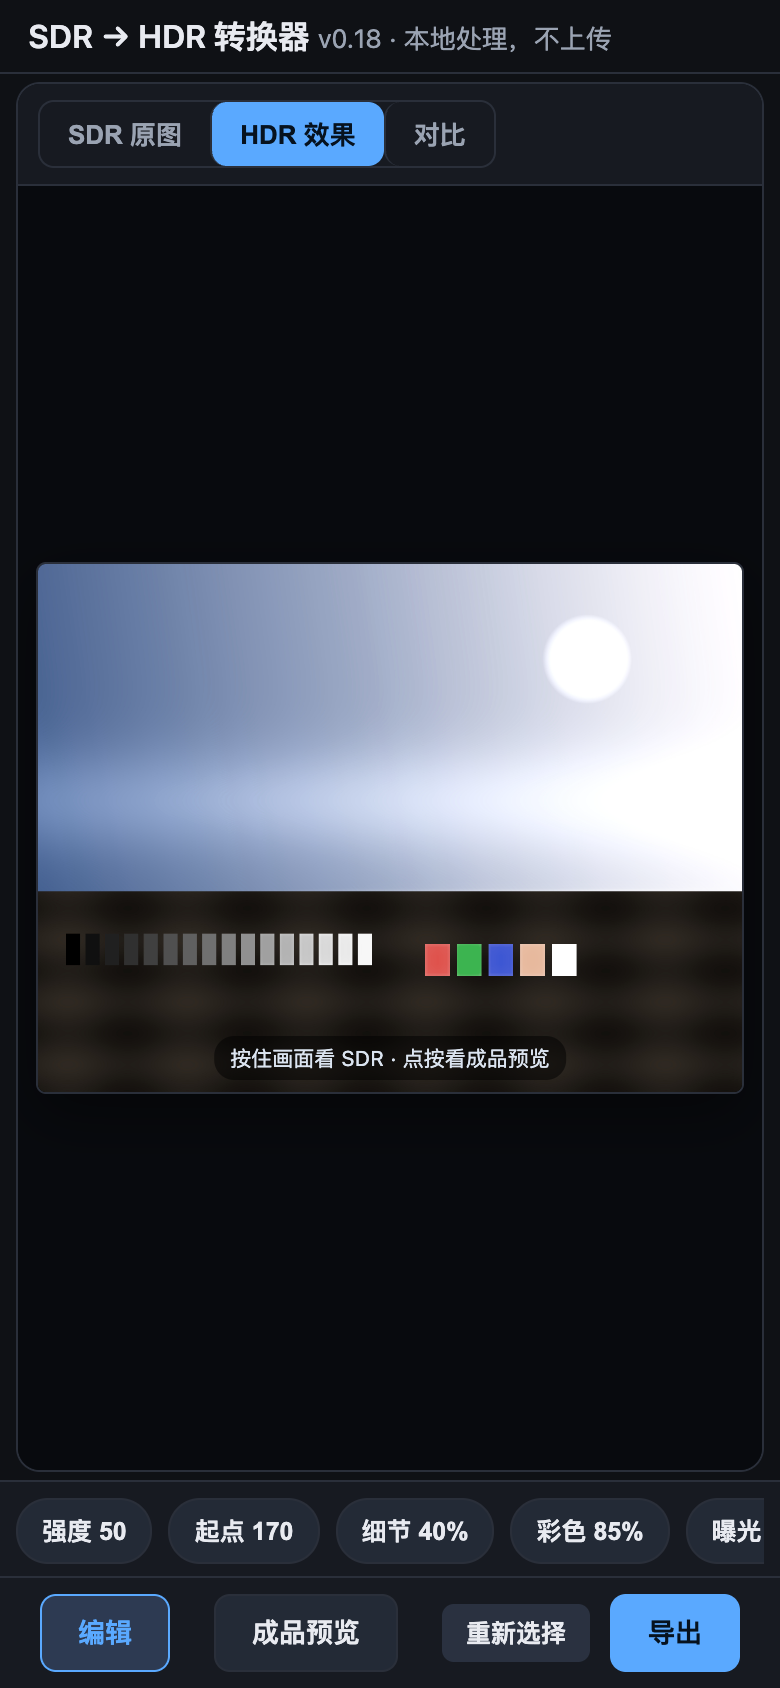
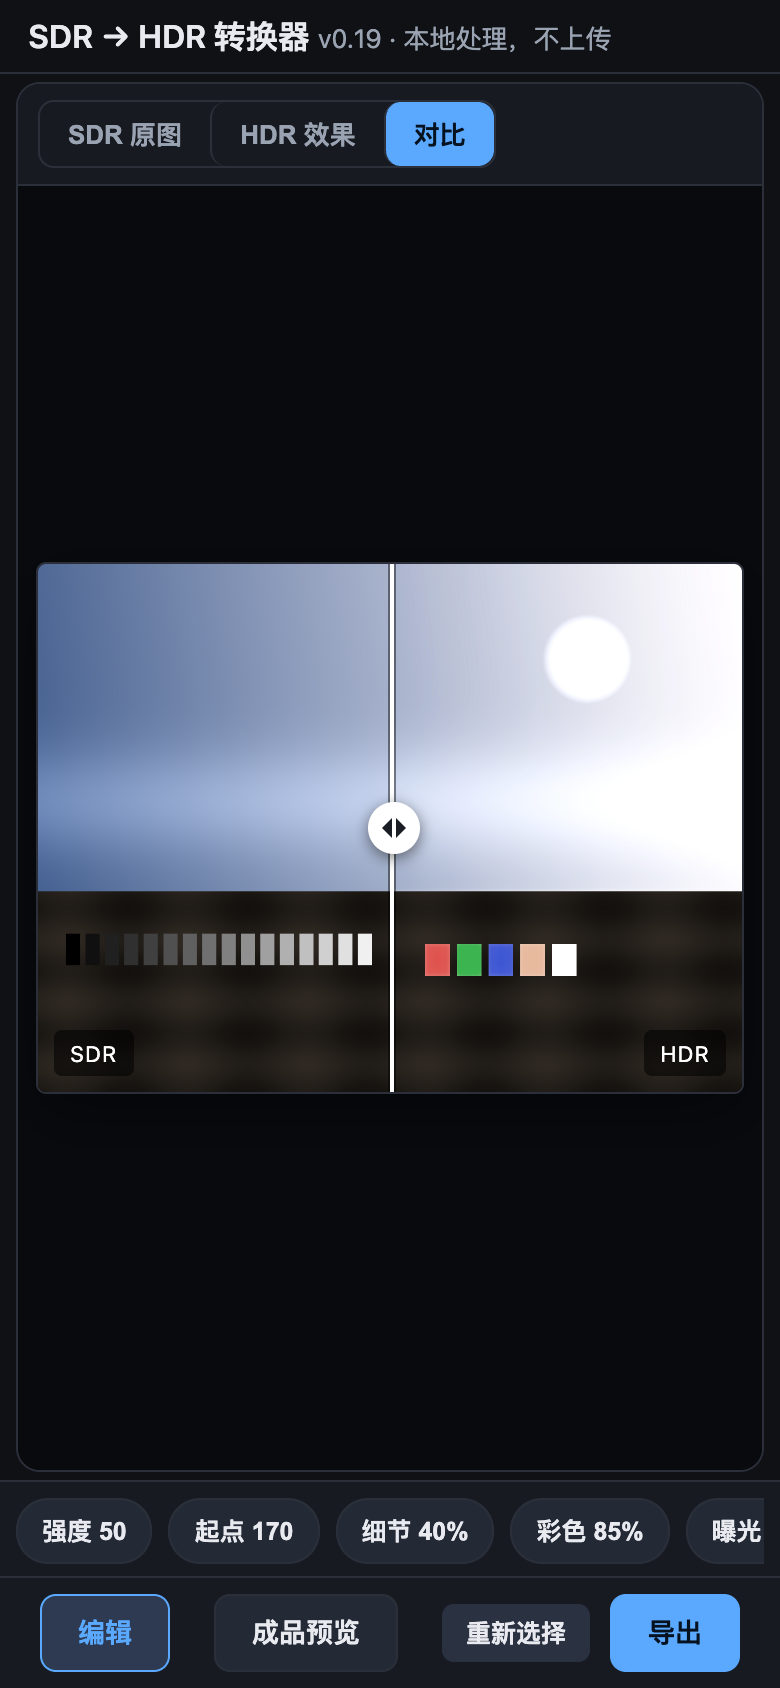
fix(ui): v0.19 always default to split compare view
- Previous v0.18 only defaulted to split on desktop (>960px); phones/narrow windows kept HDR, which is why the user still saw the HDR view after loading
- Default view on load is now split for every viewport (desktop, tablet, phone); right sidebar params still live-editable
- Rebuilt dist/SDR-to-HDR.html and legacy copy; mobile tests now assert split default
- Desktop/mobile/load regressions pass; local commit only

diff --git a/index.html b/index.html
@@ -3,7 +3,7 @@
 <head>
 <meta charset="utf-8">
 <meta name="viewport" content="width=device-width, initial-scale=1, viewport-fit=cover">
-<title>SDR → HDR 转换器（本地网页版）v0.18</title>
+<title>SDR → HDR 转换器（本地网页版）v0.19</title>
 <style>
   :root {
     --bg: #0f1115; --panel: #171a21; --line: #2a2f3a; --fg: #e8eaf0;
@@ -414,8 +414,8 @@
 <body>
 <header>
   <div class="header-text">
-    <h1>SDR → HDR 转换器 <span style="color:var(--muted);font-weight:400;font-size:13px">v0.18 · 本地处理，不上传</span></h1>
-    <div class="ver-note">v0.18 更新：载入后默认进入对比视图；顶部「拖入」条改为标题右侧小按钮，支持拖到页面任意位置换图</div>
+    <h1>SDR → HDR 转换器 <span style="color:var(--muted);font-weight:400;font-size:13px">v0.19 · 本地处理，不上传</span></h1>
+    <div class="ver-note">v0.19 更新：载入后统一默认进入对比视图（桌面与手机一致）</div>
     <p>把普通 SDR JPG / PNG 转成带增益图（gain map）的 HDR JPG：<b>HDR 屏上</b>高光更亮、画面更通透；
        <b>普通屏 / 旧软件</b>显示和原图完全一样。原图字节（含 EXIF/ICC）原样保留，全程在浏览器本地处理。</p>
   </div>
@@ -2524,8 +2524,8 @@ async function loadFileCore(file) {
   updateExportLabels();
   updateExportInfo();
 
-  // 桌面载入后默认进入左右对比；手机保持原来的 HDR 视图（手机布局暂不动）
-  state.view = (window.matchMedia && window.matchMedia("(max-width: 960px)").matches) ? "hdr" : "split";
+  // 载入后统一默认进入左右对比（桌面 / 手机 / 窄窗口一致）
+  state.view = "split";
   state.split = 0.5;
   updateParamLabels();
   updateViewTabs();
@@ -3772,7 +3772,7 @@ function bindUi() {
  * 测试钩子（headless Chrome / 自动化验证）
  * ============================================================ */
 window.__hdrApp = {
-  version: "0.18",
+  version: "0.19",
   defaultParams: DEFAULT_PARAMS,
   async encodeFromArrayBuffer(buffer, paramsOrStrength, gainScaleOpt, exportOptsOpt) {
     let params;

diff --git a/tools/test_mobile.js b/tools/test_mobile.js
@@ -33,7 +33,7 @@ const SHOTS = path.join(ROOT, "tests");
     drop: getComputedStyle(document.getElementById("drop")).display,
   }));
   console.log("mobile default:", JSON.stringify(mobileDefault));
-  if (mobileDefault.view !== "hdr") errors.push("mobile should keep HDR as default view");
+  if (mobileDefault.view !== "split") errors.push("mobile should default to split view");
   if (mobileDefault.headerBtn !== "none") errors.push("header open button should stay hidden on mobile");
   if (mobileDefault.drop !== "none") errors.push("mobile drop bar should be hidden after load");
 

diff --git a/README.md b/README.md
@@ -14,7 +14,7 @@
 - **参数悬停说明**：鼠标停在任意滑块/选项上会显示该参数具体影响画面的什么内容
 - **导入失败提示**：所有加载错误都会在主界面显示原因（不再静默失败）；缺少 JPEG 结束标记的图会尝试自动补全后导入并提示
 - **增益图灰度预览**：桌面右侧「HDR 显示」下拉 / 手机参数条可切换到灰度增益图，白色=提亮最多、黑色=不变，直观查看 HDR 提亮分布
-- **对比视图**：顶部切到「对比」，左右拖动白色分割线比较 SDR / HDR（模拟）；桌面载入后默认进入对比，手机同样支持触屏拖动
+- **对比视图**：顶部切到「对比」，左右拖动白色分割线比较 SDR / HDR（模拟）；所有设备载入后都默认进入对比，手机同样支持触屏拖动
 - 载入后顶部大标题右侧为「打开图片」小按钮；也可以把图片直接拖到页面任意位置换图
 - **整体曝光只作用于 HDR**：不修改 SDR 底图；可开启「仅整体曝光」忽略其他参数，做纯曝光提亮
 - **手机端**：App 式固定布局——顶部极简标题栏、底部参数条/导航固定，中间照片区域自适应并**完整显示整张照片**（长图不滚动）；

diff --git a/docs/compatibility.md b/docs/compatibility.md
@@ -25,7 +25,7 @@
 
 ### 界面（v0.17+）
 
-- **桌面**：单张大图工作台；顶部「SDR 原图 / HDR 效果 / 对比」切换；载入后默认进入对比；对比模式下左 SDR / 右 HDR，拖动白色分割线实时比较；右侧 360px 直方图 + 参数栏可实时调整
+- **桌面**：单张大图工作台；顶部「SDR 原图 / HDR 效果 / 对比」切换；载入后默认进入对比（所有设备一致）；对比模式下左 SDR / 右 HDR，拖动白色分割线实时比较；右侧 360px 直方图 + 参数栏可实时调整
 - 载入后拖入横条收起，标题右侧「打开图片」按钮换图；也可以把文件拖到页面任意位置
 - **手机 / 平板（≤960px）**：固定顶部标题 + 视图切换、底部参数条/导航，中间照片自适应完整显示
 - 照片完整显示（contain，不裁切、不滚动）；长图/横屏手机也能一屏看全

diff --git a/CHANGELOG.md b/CHANGELOG.md
@@ -2,6 +2,12 @@
 
 本项目的版本更新记录。从 v0.7 起，页面版本号下方会固定显示一行"本次更新"小字（每次发版同步此处）。
 
+## v0.19 — 2026-11
+
+- 修复：载入图片后未默认进入对比视图
+- 之前只有桌面端默认对比，手机 / 窄窗口仍默认 HDR；现在**所有设备统一默认进入「对比」视图**（左 SDR / 右 HDR，右侧参数仍可调）
+- 桌面与手机的默认视图逻辑统一，不再按屏幕宽度分支
+
 ## v0.18 — 2026-11
 
 - 载入图片后隐藏顶部整条「拖入 / 点击选择另一张图片」，改为大标题右侧的小按钮「打开图片」，把高度让给中间大图
